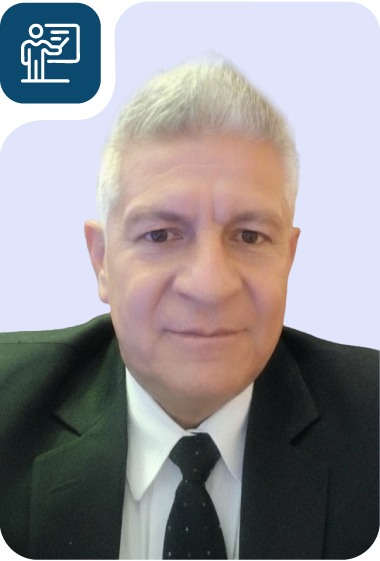
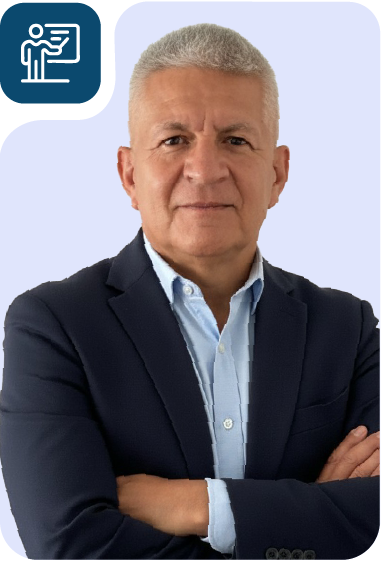
Cambios en estructura del home y modulos secundarios

diff --git a/components/actividades/ponentes-section.tsx b/components/actividades/ponentes-section.tsx
@@ -3,7 +3,7 @@
 import { useState, useEffect } from "react";
 import Image from "next/image";
 import { motion } from "framer-motion";
-import {Briefcase, GraduationCap, MapPin,ChevronLeft, ChevronRight,} from "lucide-react";
+import { Briefcase, GraduationCap, MapPin, ChevronLeft, ChevronRight, } from "lucide-react";
 
 const ponentes = [
   {
@@ -81,7 +81,7 @@ const ponentes = [
   },
   {
     nombre: "Rosa Paola Flores Loaiza",
-    cargo: "Jefe de Control de Calidad",
+    cargo: "Docente investigadora en la Universidad Nacional de Loja",
     institucion: " Universidad Nacional de Loja",
     imagen: "/img/ponentes/rosa.png",
     pais: "ECUADOR",
@@ -94,6 +94,22 @@ const ponentes = [
     imagen: "/img/ponentes/alexandra.png",
     pais: "ECUADOR",
     tema: "La Administración Pública con enfoque de género en la agricultura",
+  },
+  {
+    nombre: "Pablo Jose Ruíz Aguirre",
+    cargo: "Profesor de pregrado en la UIDE y de postgrado en la UNL",
+    institucion: "UIDE",
+    imagen: "/img/ponentes/pabloruiz.png",
+    pais: "ECUADOR",
+    tema: "La filosofía como innovación en el siglo XXI",
+  },
+  {
+    nombre: "Bruno Valarezo Correa",
+    cargo: "CEO de Clipp Ecuador SAS",
+    institucion: "Clipp Ecuador SAS",
+    imagen: "/img/ponentes/bruno.png",
+    pais: "ECUADOR",
+    tema: "Tema a definir",
   },
 ];
 
@@ -165,14 +181,12 @@ export function PonentesSection() {
                   >
                     {/* --- CARA FRONTAL --- */}
                     <div
-                      className={`absolute inset-0 [backface-visibility:hidden] ${
-                        isFlipped ? "pointer-events-none" : "pointer-events-auto"
-                      }`}
+                      className={`absolute inset-0 [backface-visibility:hidden] ${isFlipped ? "pointer-events-none" : "pointer-events-auto"
+                        }`}
                     >
                       <div
-                        className={`relative h-full overflow-hidden rounded-[28px] shadow-[0_14px_40px_rgba(0,0,0,.35)] ${
-                          isFlipped ? "" : "group"
-                        }`}
+                        className={`relative h-full overflow-hidden rounded-[28px] shadow-[0_14px_40px_rgba(0,0,0,.35)] ${isFlipped ? "" : "group"
+                          }`}
                       >
                         <Image
                           src={p.imagen}
@@ -182,9 +196,8 @@ export function PonentesSection() {
                         />
                         <div className="absolute inset-0 bg-gradient-to-t from-[#0b2431]/70 via-[#0b2431]/20 to-transparent" />
                         <div
-                          className={`absolute bottom-0 z-20 w-full bg-[#b55e2b]/35 backdrop-blur-md border-t border-[#b55e2b]/40 rounded-b-[28px] px-7 pt-5 pb-[90px] h-[210px] transition-transform duration-500 ease-out ${
-                            isFlipped ? "" : "group-hover:translate-y-[50px]"
-                          }`}
+                          className={`absolute bottom-0 z-20 w-full bg-[#b55e2b]/35 backdrop-blur-md border-t border-[#b55e2b]/40 rounded-b-[28px] px-7 pt-5 pb-[90px] h-[210px] transition-transform duration-500 ease-out ${isFlipped ? "" : "group-hover:translate-y-[50px]"
+                            }`}
                         >
                           <h3 className="text-[20px] pb-2 font-semibold border-b border-[#1c1c1c] leading-tight">
                             {p.nombre}

diff --git a/app/actividades/page.tsx b/app/actividades/page.tsx
@@ -1,10 +1,10 @@
 import { Header } from "../../components/shared/header";
 import { Footer } from "../../components/shared/footer";
-import { PonentesSection } from "@/components/eventos/ponentes-section";
+import { PonentesSection } from "@/components/actividades/ponentes-section";
 import Estadisticas from "@/components/congreso/estadisticas";
 import { CarruselSection } from "@/components/home/carrusel-section";
 import { Contador } from "@/components/home/contador-section";
-import { Experiencia } from "@/components/eventos/experiencia-section";
+import { Experiencia } from "@/components/actividades/experiencia-section";
 
 export default function EventosPage() {
     return (

diff --git a/app/page.tsx b/app/page.tsx
@@ -5,7 +5,7 @@ import { Contador } from "../components/home/contador-section";
 import { PartnersSection } from "../components/home/partners-section";
 import { InfoSection } from "../components/home/info-section";
 import { FechasImportantes } from "../components/home/fechas-importantes-section";
-import { Experiencia } from "@/components/eventos/experiencia-section";
+import { Experiencia } from "@/components/actividades/experiencia-section";
 import { TarifaSection } from "@/components/tarifa/tarifa-section";
 import { AreasTematicas } from "@/components/home/areas-tematicas-section";
 import Estadisticas from "@/components/congreso/estadisticas";

diff --git a/components/shared/header.tsx b/components/shared/header.tsx
@@ -35,7 +35,7 @@ export function Header() {
               EL CONGRESO
             </Link>
             <Link
-              href="/eventos"
+              href="/actividades"
               className="flex items-center gap-2 text-cyan-400 hover:text-cyan-300 transition-colors text-sm font-medium"
             >
               <Calendar className="h-4 w-4" />
